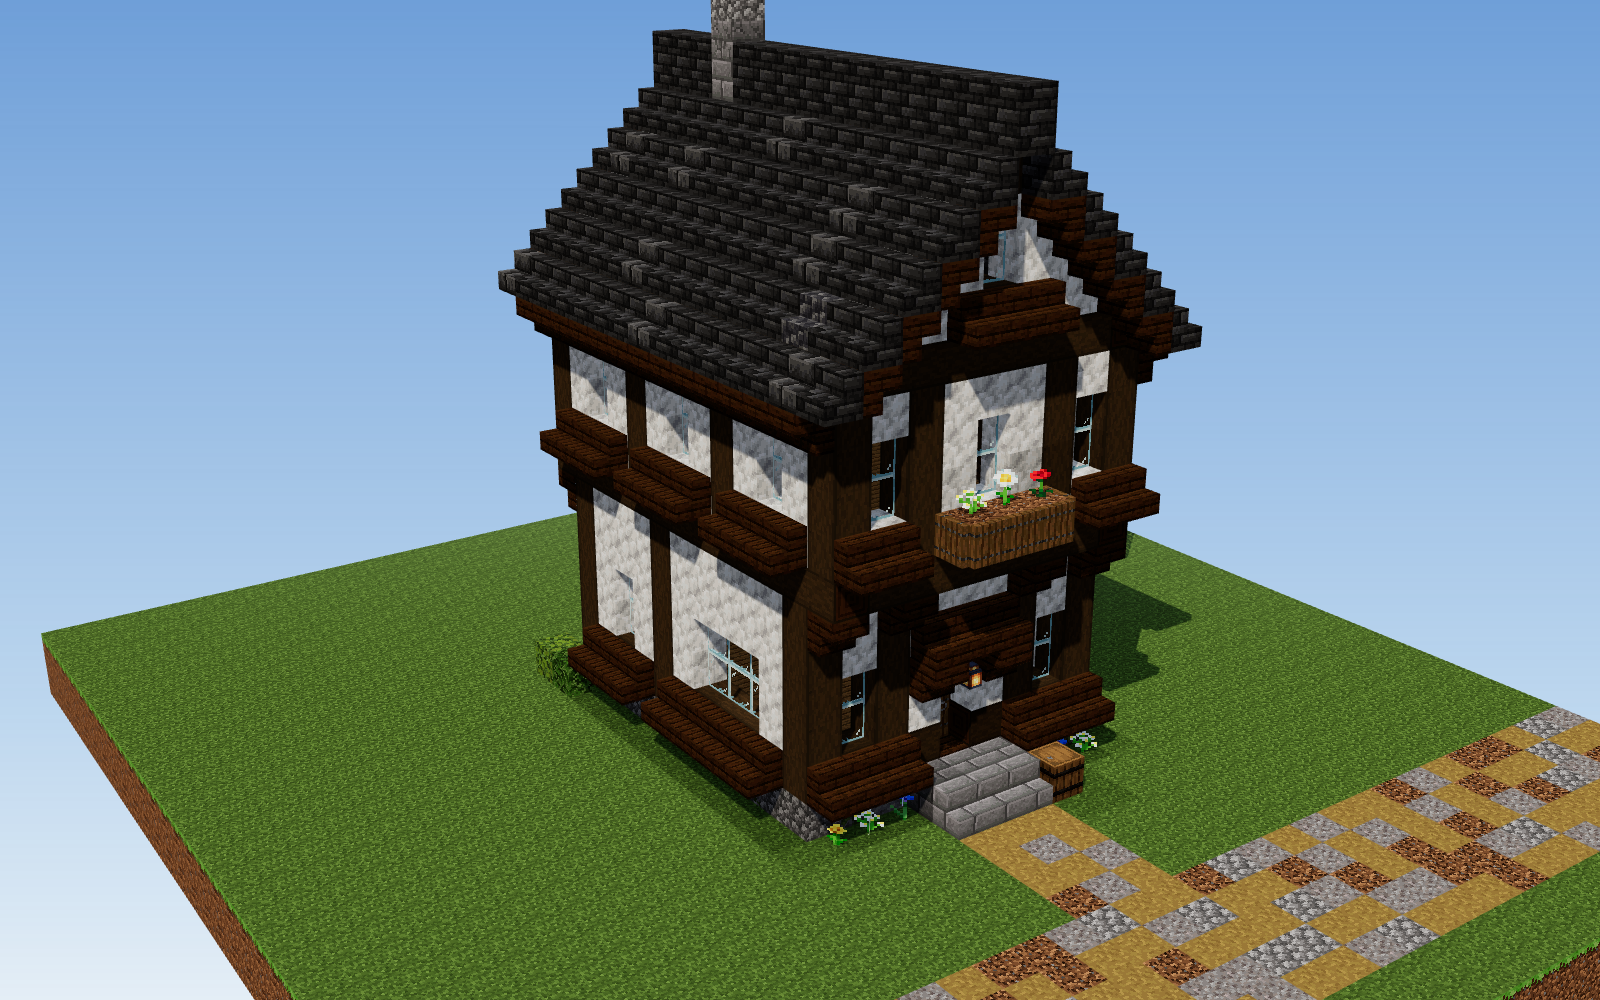
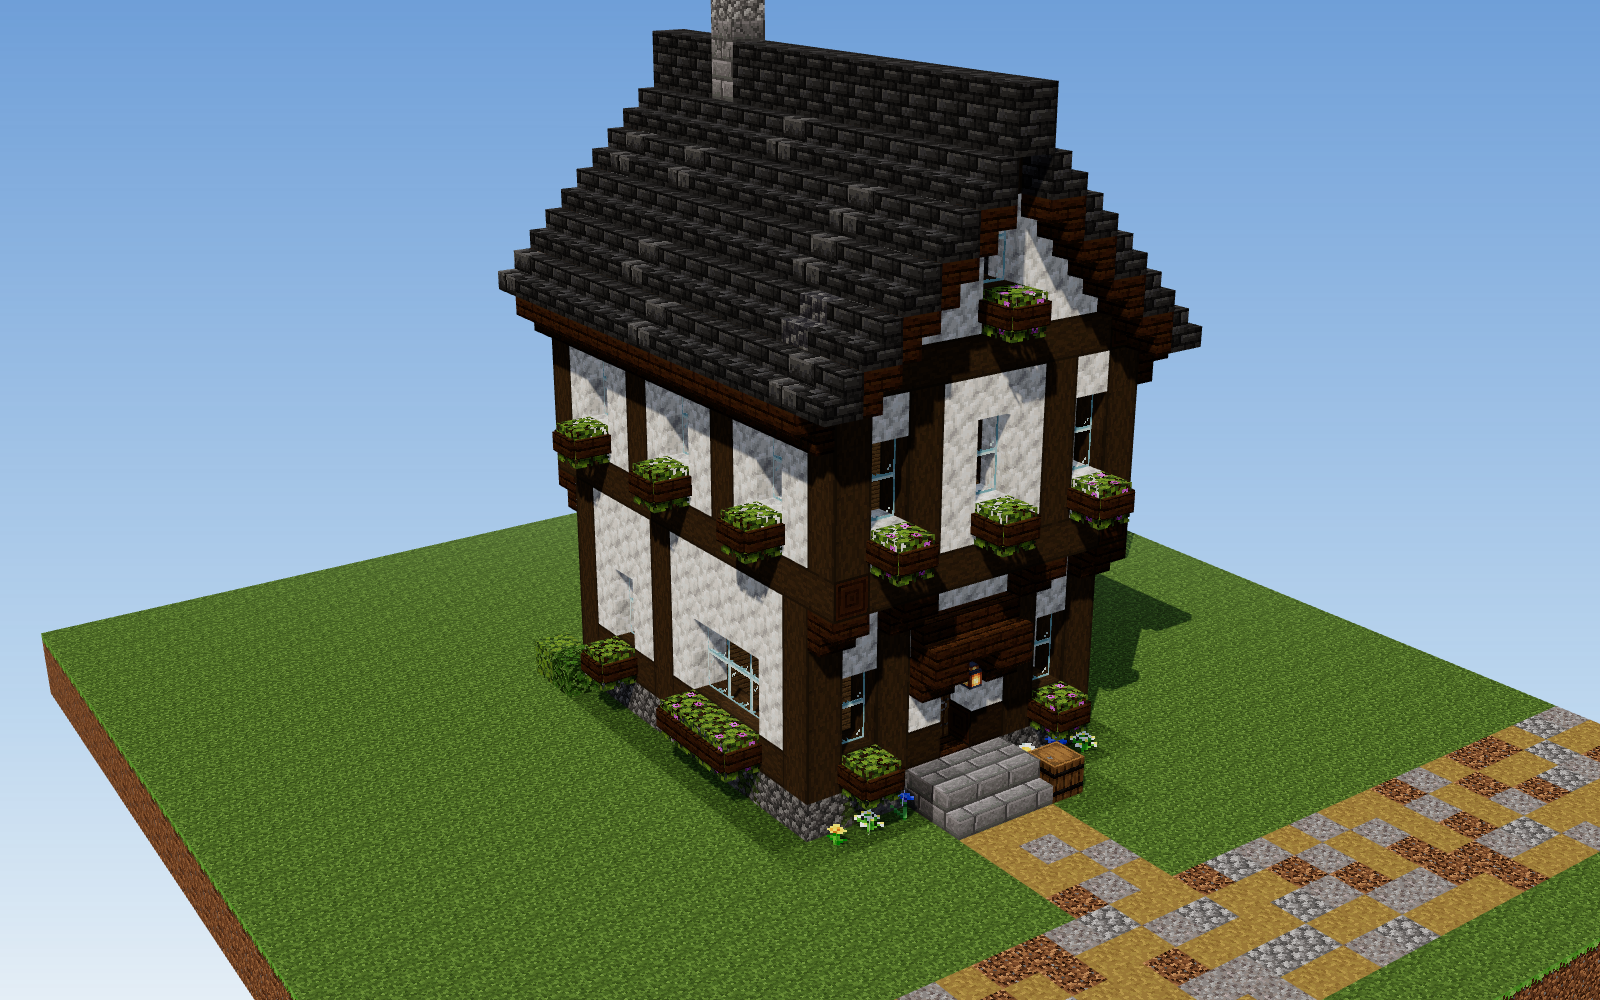
Window boxes: leaves boxed in by signs replace stair sills on houses (Mateo)
Claude-Session: https://claude.ai/code/session_01A4uWhZPdN8waG5KnyimjxU

diff --git a/build-instructions/examples/test_house.py b/build-instructions/examples/test_house.py
@@ -20,6 +20,8 @@ P.update(
     pane="brown_stained_glass_pane",               # tinted to the house (palettes/vale.md: plaster houses)
     floor_field="spruce_slab", floor_border="dark_oak_slab", joist="stripped_dark_oak_log",
 )
+LEAVES = mix([("azalea_leaves", 70), ("azalea_leaves_flowered", 30)], 12)
+SIGN = "darkoak_wall_sign"
 W, D = 8, 10            # last x, last z of the ground storey
 YF = 2                  # ground floor walking surface
 Y_UP = 7                # upper floor layer (walking surface 8)
@@ -109,18 +111,32 @@ def walls(bp):
     infill(upper, Y_UP + 1, Y_PLATE - 1)
 
 # ---------------------------------------------------------------- stage 5: windows and doors
-def window(bp, cells, y, out, shutters=False, cap=False):
+def window(bp, cells, y, out, shutters=False, cap=False, box=True):
     """cells: wall cells of the glass (one row); y: bottom of a 2-tall window; out: outward direction.
-    Glass flush in the wall face; a sill stair (tall side to the wall) one block out, one wider each side;
-    a top-slab cap above, one wider each side, unless something already sits there (eaves)."""
+    Glass flush in the wall face. Under it a window box (Mateo, 2026-11-11): leaves one block out, as wide
+    as the glass, with wall signs round its front and ends. A top-slab cap only when asked (stone, or no
+    beam close above)."""
     dx, dz = {"n": (0, -1), "s": (0, 1), "e": (1, 0), "w": (-1, 0)}[out]
-    inward = {"n": "s", "s": "n", "e": "w", "w": "e"}[out]
     along = (1, 0) if out in "ns" else (0, 1)
+    left = {"s": "w", "n": "e", "e": "s", "w": "n"}[out]; right = {"s": "e", "n": "w", "e": "n", "w": "s"}[out]
     for (x, z) in cells:
         for j in range(2): bp.set(x, y + j, z, P["pane"])
     ends = [(cells[0][0] - along[0], cells[0][1] - along[1]), (cells[-1][0] + along[0], cells[-1][1] + along[1])]
+    if box:
+        free = lambda x, yy, z: bp.get(x, yy, z)[0] == "keep"
+        if all(free(x + dx, y - 1, z + dz) for (x, z) in cells):
+            for (x, z) in cells:
+                bp.set(x + dx, y - 1, z + dz, LEAVES(x, y, z)[0], persistent=True)
+                if free(x + 2 * dx, y - 1, z + 2 * dz): bp.set(x + 2 * dx, y - 1, z + 2 * dz, SIGN, facing=out)
+            # end signs face along the wall, away from the box (wall signs on the ends of the leaves)
+            first, last = cells[0], cells[-1]
+            order = sorted([first, last], key=lambda c: c[0] * along[0] + c[1] * along[1])
+            lo_c, hi_c = order[0], order[1]
+            lo_dir = "w" if along == (1, 0) else "n"; hi_dir = "e" if along == (1, 0) else "s"
+            for (cx, cz), d, (ax, az) in ((lo_c, lo_dir, (-along[0], -along[1])), (hi_c, hi_dir, along)):
+                sx, sz = cx + dx + ax, cz + dz + az
+                if free(sx, y - 1, sz): bp.set(sx, y - 1, sz, SIGN, facing=d)
     for (x, z) in [ends[0]] + list(cells) + [ends[1]]:
-        if bp.get(x + dx, y - 1, z + dz)[0] == "keep": bp.set(x + dx, y - 1, z + dz, P["trim"], facing=inward)
         if cap and bp.get(x + dx, y + 2, z + dz)[0] == "keep": bp.set(x + dx, y + 2, z + dz, P["trim_slab"], half="top")
     if shutters:
         for (x, z) in ends:
@@ -174,12 +190,6 @@ def detailing(bp):
     flowers = ["poppy", "cornflower", "dandelion", "azure_bluet", "oxeye_daisy"]
     for x in (0, 1, 2, 6, 7, 8):                                       # flower bed under the front windows
         bp.set(x, 0, D + 1, "grass_block"); bp.set(x, 1, D + 1, flowers[int(h3(x, 1, D, 5) * 5)])
-    # planter under the upper centre window: dirt and flowers behind trapdoor fronts, in place of the sill
-    for x in (3, 4, 5):
-        bp.set(x, Y_UP + 1, D + 2, "dirt"); bp.set(x, Y_UP + 2, D + 2, flowers[x % 5])
-        bp.set(x, Y_UP + 1, D + 3, P["shutter"], facing="s", open=True)
-    for z in (D + 2,):
-        bp.set(2, Y_UP + 1, z, P["shutter"], facing="w", open=True); bp.set(6, Y_UP + 1, z, P["shutter"], facing="e", open=True)
     bp.set(6, 1, D + 2, "barrel", facing="up")                          # one prop by the door
     for x, z in ((-1, -1), (W + 1, -1)):                                # bushes at the back corners
         bp.set(x, 1, z, "azalea_leaves", persistent=True)

diff --git a/build-instructions/05-windows-and-doors/README.md b/build-instructions/05-windows-and-doors/README.md
@@ -76,7 +76,20 @@ Windows start one block above the floor. Upper windows sit straight above lower 
   frame face; the frame around it is the surround, so skip shutters on these windows.
 - Glass never sticks out past the wall face.
 
-### Sills
+### Window boxes (default under house windows)
+
+Mateo, 2026-11-11, on the test house: replace the right-way-up stair sills with **leaves boxed in by
+signs**.
+
+- One block out from the wall, directly under the glass, a row of leaves as wide as the glass
+  (azalea leaves with about 30% flowering azalea in the Vale; the region's leaves elsewhere, persistent).
+- Wall signs in the trim wood on the front of every leaf block and on both ends of the row, so the leaves
+  sit in a thin wooden box. Signs blank.
+- On every house window where the cell is free. Where it is not (a bracket, the eaves, a step), leave the
+  window without one.
+- Stone and civic buildings keep the stair or slab sills below.
+
+### Sills (stone and civic buildings)
 
 - Default: a **right-way-up stair** under each glass cell, its tall side against the wall
   and its low step facing the street (in `bp.py`: `facing` = the side towards the wall, `half="bottom"`;
@@ -115,7 +128,7 @@ Windows start one block above the floor. Upper windows sit straight above lower 
 - Shutters only on windows 1 or 3 wide; never on stone hall windows, windows with bars, or windows set
   in a proud frame.
 
-### Planters
+### Planters (alternative)
 
 - A box of trapdoors (open, facing out, round the front and ends) one block in front of the wall, under
   the sill, with flowers or sweet berry bushes or leaves on dirt or a composter inside.
@@ -158,6 +171,6 @@ All arches follow `reference/shapes.md`. Quick versions:
 - [ ] Every door on a bay centre with jambs and lintel; no double doors; canopy or lantern, not clutter.
 - [ ] Every window the planned size, stacked over the openings below.
 - [ ] Glass tinted/textured to the house (stained in chapels), flush with the wall face.
-- [ ] Sills wider than the glass; heads capped; street windows have surrounds.
+- [ ] House windows have leaf boxes with signs; stone sills wider than the glass; heads capped where there is room.
 - [ ] Shutters on at most 30%, planters on about a quarter, in symmetric pairs on formal fronts.
 - [ ] Arches symmetric about the centre block.
